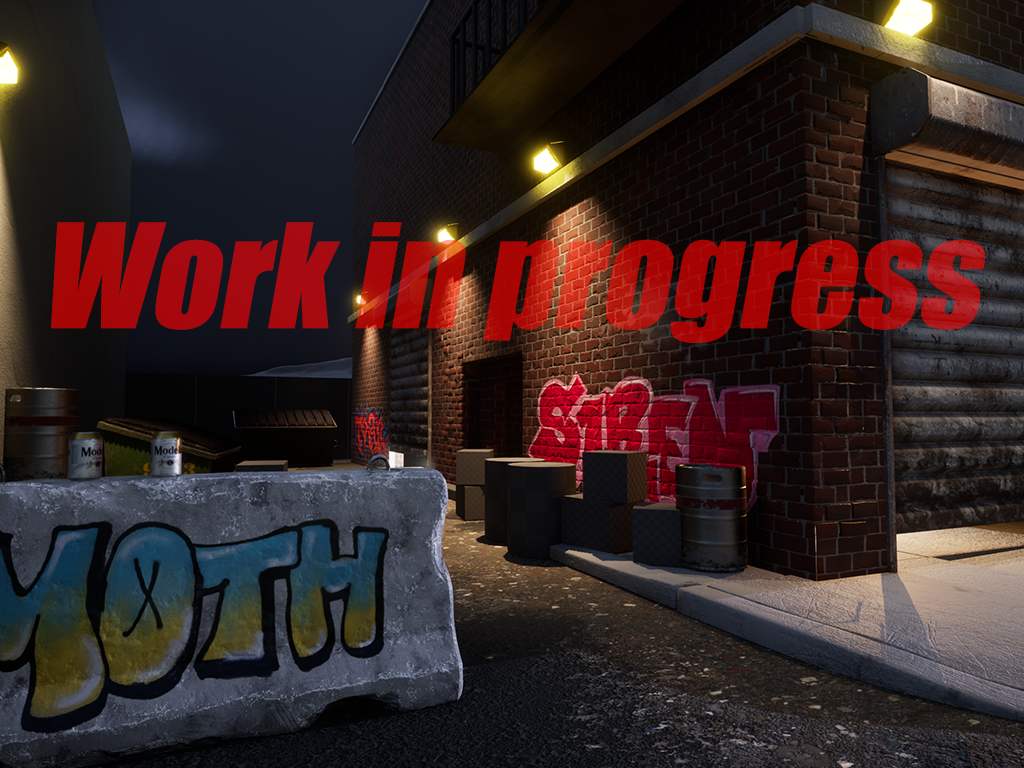
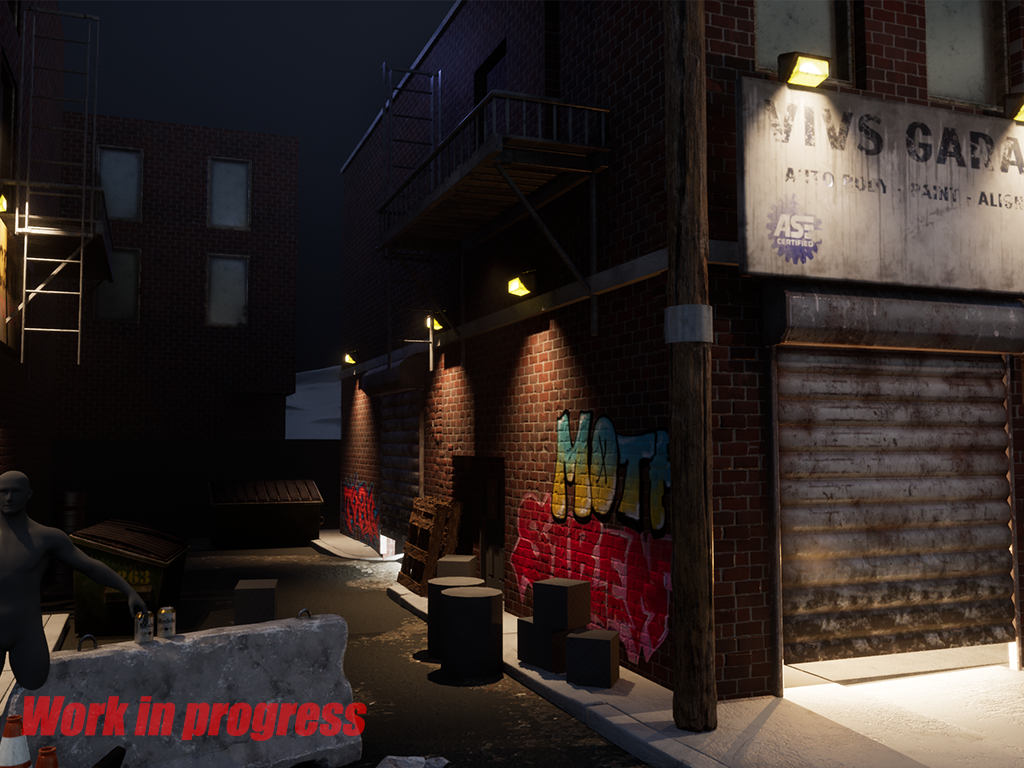
Updated imagery for Alleyway portfolio Piece

diff --git a/index.html b/index.html
@@ -482,7 +482,7 @@
                 <div class="portfolio-info">
                   <h4>Enviroment</h4>
                   <p>UE5 Alleyway Enviroment</p>
-                  <a href="images/HighresScreenshot00043.png" title="UE5 Alleyway Enviroment" data-gallery="portfolio-gallery-book" class="glightbox preview-link"><i class="bi bi-zoom-in"></i></a>
+                  <a href="images/AlleyWay_11-13 update.png" title="UE5 Alleyway Enviroment" data-gallery="portfolio-gallery-book" class="glightbox preview-link"><i class="bi bi-zoom-in"></i></a>
                   <!-- <a href="portfolio-details.html" title="More Details" class="details-link"><i class="bi bi-link-45deg"></i></a> -->
                 </div>
               </div>
